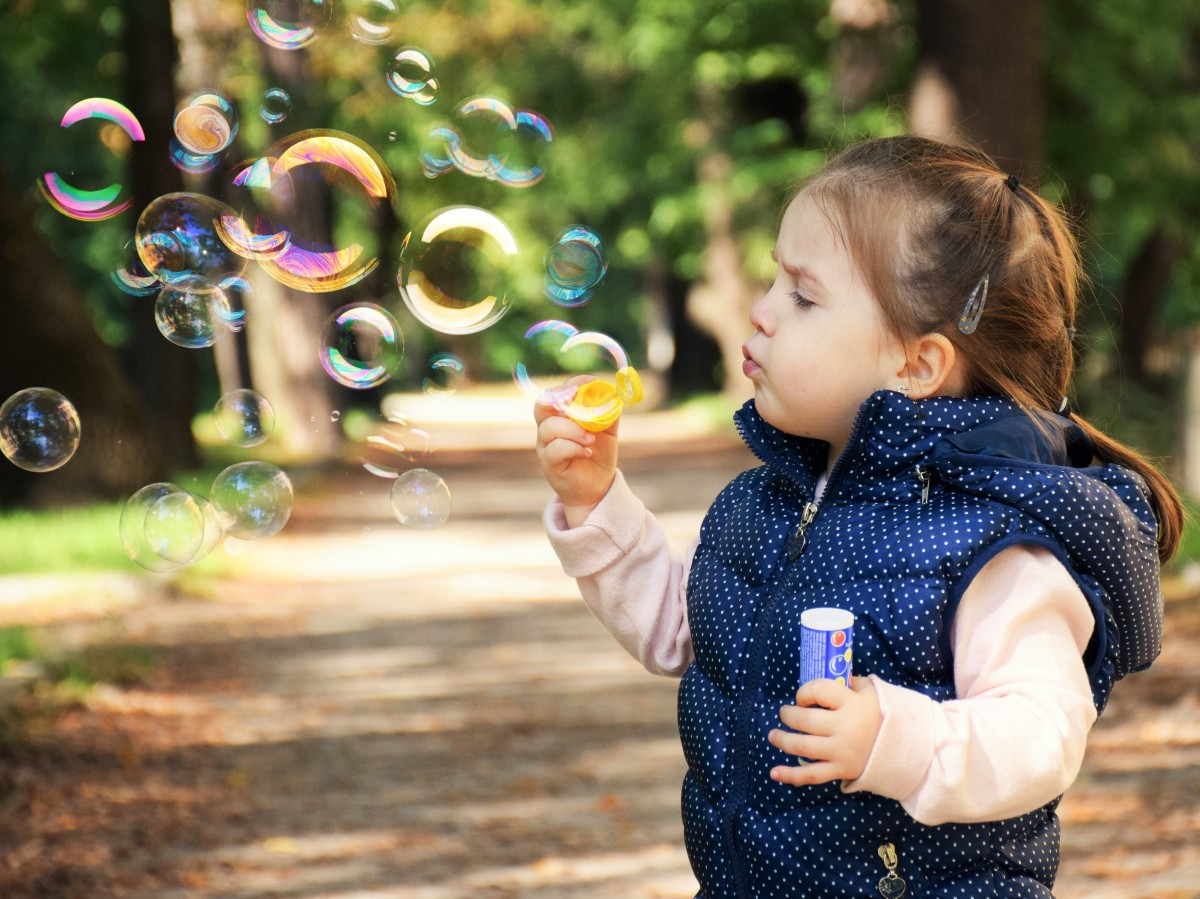
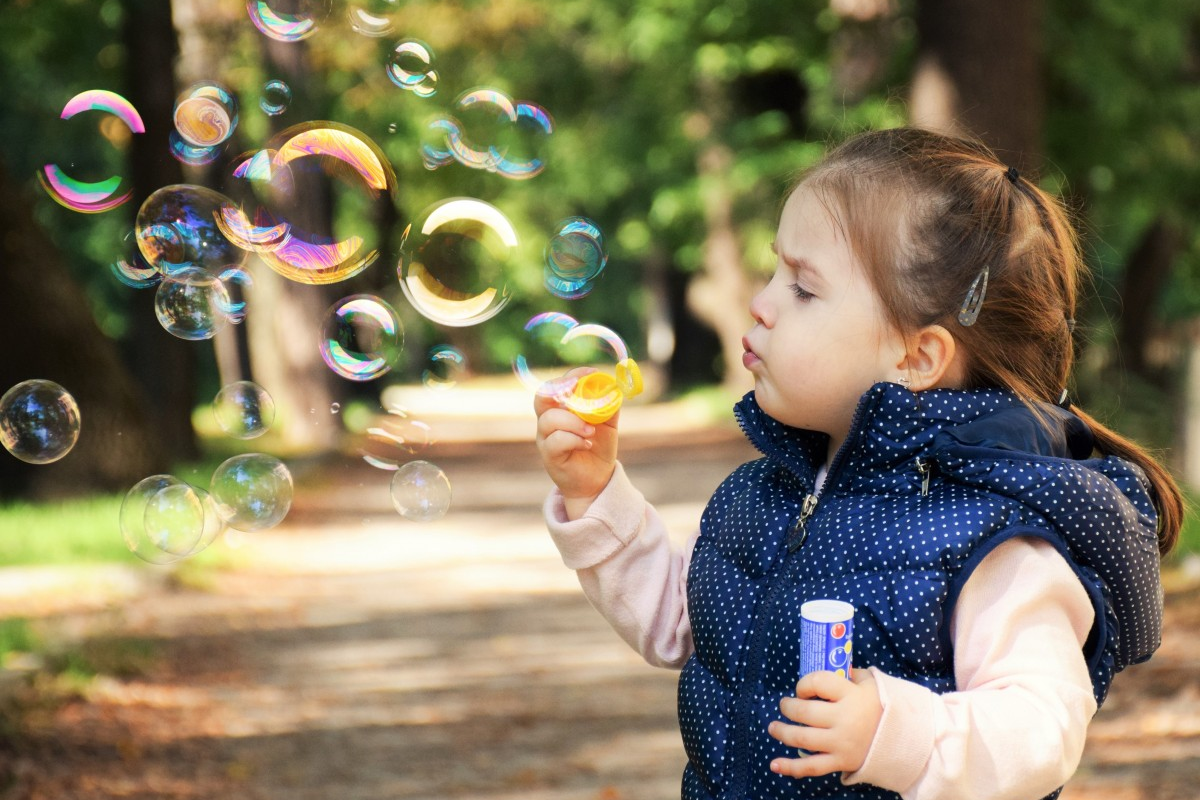
updated FAQ, heading images width etc

diff --git a/assets/css/style.css b/assets/css/style.css
@@ -54,7 +54,7 @@ header {
 }
 
 .navbar-collapse {
-    margin-top: 0.45rem;
+    margin-top: 0.25rem;
     background-color: #ffffffc9;
     border-bottom-right-radius: 5px;
     border-bottom-left-radius: 5px;
@@ -498,15 +498,19 @@ p.fact-text {
     width: 100vw;
 }
 
-.services-img p {
+.services-img-text-top {
     position: absolute;
-    right: 14vw;
-    margin-top: 7vw;
+    z-index: 2;
+    width: 100vw;
+    text-align: center;
+    margin-top: 9vw;
+}
+
+.services-img p {
     font-family: righteous;
     font-size: 1.8rem;
     color: #084387;
-    text-shadow: -1px 1px #84b3da;
-    z-index: 1;
+    text-shadow: -2px 1px 6px #84b3da;
 }
 
 .services-home-business-container {
@@ -682,11 +686,14 @@ p.fact-text {
 .support-main-image {
     padding: 0;
     display: flex;
-    align-items: start;
+    align-items: center;
+    max-height: 70vh;
+    overflow: hidden;
 }
 
 .support-main-image img {
-    max-width: 100%;
+    width: 100%;
+    overflow: hidden;
 }
 
 .support-main-image h3 {
@@ -739,13 +746,11 @@ p.fact-text {
     min-height: 2.5rem;
     line-height: 2.5rem;
     text-align: center;
-    margin: auto;
 }
 
 .support-step-item p {
     font-size: 1rem;
     padding-left: 1rem;
-    margin: auto;
 }
 
 .faq-container {
@@ -802,6 +807,12 @@ p.fact-text {
 .panel-body {
     background-color: #fff;
     border-radius: 5px;
+    width: 90vw;
+    padding: 1rem;
+}
+
+.panel-title {
+    width: 90vw;
 }
 
 .support-form-container {
@@ -1017,9 +1028,7 @@ p.fact-text {
         text-align: left;
     }
     .services-img p {
-        right: 1rem;
-        margin-top: 1rem;
-        font-size: 3rem;
+        font-size: 5rem;
     }
     .services-home-business-container {
         padding: 0 2rem 3rem;
@@ -1033,10 +1042,14 @@ p.fact-text {
     #carousel-main {
         margin-top: 0;
     }
+    .support-steps {
+        flex-direction: row;
+    }
+    /*
     .support-main-image img {
         max-height: 70vh;
         margin: auto;
-    }
+    }*/
 }
 
 @media (min-width: 767px) and (max-width: 1006px) {
@@ -1064,9 +1077,7 @@ p.fact-text {
         right: 2rem;
         font-size: 2rem !important;
     }
-    .support-steps {
-        flex-direction: row;
-    }
+
     .support-form-submit {
         float: right;
     }
@@ -1080,8 +1091,7 @@ p.fact-text {
         padding-left: 2rem;
     }
     .carousel-item img {
-        max-width: 60vw;
-        max-height: 90vh;
+        max-height: 75vh;
         margin: auto;
     }
     .carousel-caption-top {
@@ -1109,4 +1119,12 @@ p.fact-text {
         font-size: 1.7rem;
     }
 
+}
+
+
+
+@media (min-width: 1200px) {
+    .container {
+        max-width: 85vw;
+    }
 }

diff --git a/support.html b/support.html
@@ -71,7 +71,7 @@
             <div class="container-fluid support-header-img-container">
                 <div class="row support-header">
                     <div class="col-12 support-main-image">
-                        <img src="assets/images/support/girl-bubbles.jpg"></img>
+                        <img class="img-fluid" src="assets/images/support/girl-bubbles.jpg"></img>
                         <h3>Remember when things were easier?</h3>
                         <p>We make it easy again for you.</p>
                     </div>

diff --git a/services.html b/services.html
@@ -69,7 +69,10 @@
         <section>
             <div class="container-fluid services-header-picture">
                 <div class="services-img">
-                    <p>Dobi means Trust</p>
+                    <div class="services-img-text-top">
+                        <p>Dobi means Trust</p>
+                    </div>
+                    
                     <img src="assets/images/services/family-beach.jpg" class="img-fluid" alt="Family running on the beach">
                 </div>
             </div>
